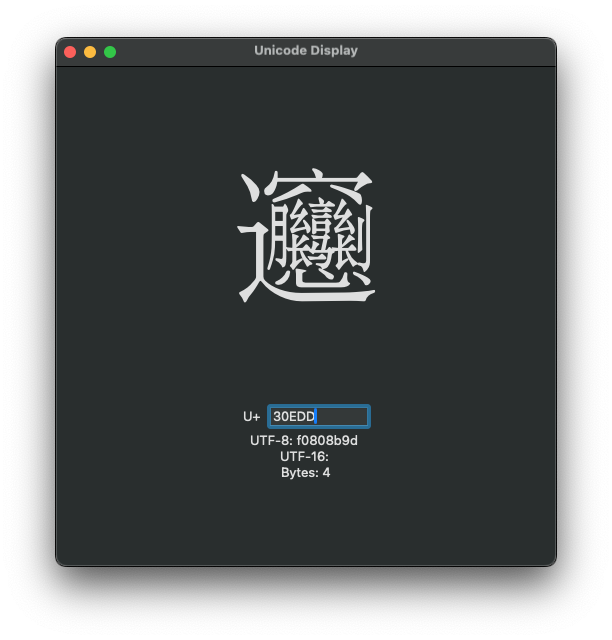
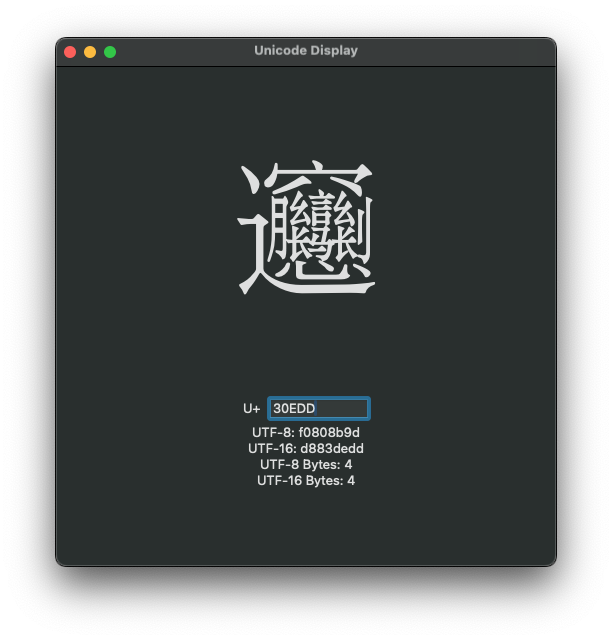
Added UTF-16 bytes and improved invalid character handling with reset

Changed region(s): [[0.3725, 0.25, 0.6209, 0.4688], [0.4036, 0.5938, 0.6209, 0.7812]]

diff --git a/Unicode Display/Converter.swift b/Unicode Display/Converter.swift
@@ -12,18 +12,20 @@ import Foundation
 //}
 
 class Converter {
-    private var bytesUsed = 0
+    private var encodedChar = Character("\u{200B}")
+    private var codePoint: UInt32 = 0
     private var utf8: UInt32 = 0
     private var utf16: UInt32 = 0
-    private var codePoint: UInt32 = 0
-    private var codePlane: Int = 0
-    private var encodedChar = Character("\u{200B}")
+    private var utf8BytesUsed = 0
+    private var utf16BytesUsed = 0
+    private var codePlane = 0
 //    let utf8codec: Unicode.UTF8
     
     init() {}
     
-    init(_ encoding: String, _ codePoint: String) {
-        self.codePoint = UInt32(codePoint)!
+    func reset() {
+        encodedChar = Character("\u{200B}")
+        (codePoint, utf8, utf16, utf8BytesUsed, utf16BytesUsed) = (0, 0, 0, 0, 0)
     }
     
     /// Sets the converter's `codePoint` to the input, checks for valid hex code and length
@@ -38,14 +40,21 @@ class Converter {
         
         // Check that the codePoint string can become a hex number/only contains hex characters
         if let codeHex = UInt32(codePoint, radix: 16) {
-            // Check that the hex number is in a valid point range of displayable Unicode characters
-            if pointRange.contains(codeHex) {
-                self.codePoint = codeHex
-                set_utf8()
-                set_utf16()
-                setChar()
-                setCodePlane()
+            // Supposedly can set variables without error
+            self.codePoint = codeHex
+            set_utf8()
+            set_utf16()
+            set_codePlane()
+            // Check that the codePoint is in a valid point range of displayable Unicode characters
+            if pointRange.contains(self.codePoint) {
+                set_char()
+            } else {
+                // Control character/invalid so set to zero width space
+                encodedChar  = Character("\u{200B}")
             }
+        } else {
+            // Not valid codePoint/hex input
+            reset()
         }
     }
     
@@ -63,31 +72,31 @@ class Converter {
         utf8 = 0
         
         if fourBytes.contains(codePoint) {
-            bytesUsed = 4
+            utf8BytesUsed = 4
             byte1 = (0b1111_0000 + UInt8(codePoint >> 18))
             byte2 = (continuationByte + UInt8((codePoint & 0x3FFF) >> 12))
             byte3 = (continuationByte + UInt8((codePoint & 0x3FF) >> 6))
             byte4 = (continuationByte + UInt8(codePoint & 0x3F))
         } else if threeBytes.contains(codePoint)  {
-            bytesUsed = 3
+            utf8BytesUsed = 3
             byte1 = (0b1110_0000 + UInt8(codePoint >> 12))
             byte2 = (continuationByte + UInt8((codePoint & 0xFFF) >> 6))
             byte3 = (continuationByte + UInt8(codePoint & 0x3F))
         } else if twoBytes.contains(codePoint) {
-            bytesUsed = 2
+            utf8BytesUsed = 2
             byte1 = (continuationByte + UInt8(codePoint >> 6))
             byte2 = (continuationByte + UInt8(codePoint & 0x3F))
         } else if oneByte.contains(codePoint) {
-            bytesUsed = 1
+            utf8BytesUsed = 1
             byte1 = UInt8(codePoint)
         } else {
             print("Invalid code point: \(codePoint)")
             return
         }
         
-        let byte1Shift = (bytesUsed - 1) * UInt8.bitWidth
-        let byte2Shift = bytesUsed >= 2 ? ((bytesUsed - 2) * UInt8.bitWidth) : 0
-        let byte3Shift = bytesUsed >= 3 ? ((bytesUsed - 3) * UInt8.bitWidth) : 0
+        let byte1Shift = (utf8BytesUsed - 1) * UInt8.bitWidth
+        let byte2Shift = utf8BytesUsed >= 2 ? ((utf8BytesUsed - 2) * UInt8.bitWidth) : 0
+        let byte3Shift = utf8BytesUsed >= 3 ? ((utf8BytesUsed - 3) * UInt8.bitWidth) : 0
         utf8 = UInt32(byte1) << byte1Shift + UInt32(byte2) << byte2Shift
         utf8 += UInt32(byte3) << byte3Shift + UInt32(byte4)
     }
@@ -99,6 +108,7 @@ class Converter {
     func set_utf16() -> Void {
         // Trying C implementation
         utf16 = cset_utf16(codePoint)
+        utf16BytesUsed = utf16 <= 0xFFFF ? 2 : 4
         return
     }
     
@@ -106,24 +116,32 @@ class Converter {
         return utf16
     }
     
-    func getChar() -> Character {
+    func get_char() -> Character {
         return encodedChar
     }
     
-    func getBytesUsed() -> Int {
-        return bytesUsed
+    func get_utf8Bytes() -> Int {
+        return utf8BytesUsed
+    }
+    
+    func get_utf16Bytes() -> Int {
+        return utf16BytesUsed
     }
     
     /// Sets the member `encodedChar` to a Unicide.Scalar, (presumably) simulating valid UTF encoding
     /// - Returns: no return value
-    private func setChar() -> Void {
-        encodedChar = Character(Unicode.Scalar(codePoint)!)
+    private func set_char() -> Void {
+        if let scalar = Unicode.Scalar(codePoint) {
+            encodedChar = Character(scalar)
+        } else {
+            encodedChar = Character("\u{200B}")
+        }
         return
     }
     
     /// Calculates the code plane from the member code point, not currently used but for inspection purposes
     /// - Returns: no return value
-    private func setCodePlane() -> Void {
+    private func set_codePlane() -> Void {
         let planeBits = codePoint >> 16
         codePlane = Int(planeBits)
         

diff --git a/Unicode Display/ContentView.swift b/Unicode Display/ContentView.swift
@@ -12,7 +12,8 @@ struct ContentView: View {
     @State private var displayChar = Character("\u{200B}")
     @State private var utf8: UInt32 = 0
     @State private var utf16: UInt32 = 0
-    @State private var numBytes = 0
+    @State private var utf8Bytes = 0
+    @State private var utf16Bytes = 0
     private let converter = Converter()
     
     init() {}
@@ -29,21 +30,21 @@ struct ContentView: View {
                         .frame(minWidth: 100, maxWidth: 100)
                         .onChange(of: codePoint) {
                             displayChar = Character("\u{200B}")
-                            utf8 = 0
-                            utf16 = 0
-                            numBytes = 0
                             converter.setCodePoint(codePoint)
-                            displayChar = converter.getChar()
+                            displayChar = converter.get_char()
                             utf8 = converter.get_utf8()
                             utf16 = converter.get_utf16()
-                            numBytes = converter.getBytesUsed()
+                            utf8Bytes = converter.get_utf8Bytes()
+                            utf16Bytes = converter.get_utf16Bytes()
                         }
                 } label: {
                     Text("U+")
                 }
-                Text("UTF-8: " + String(utf8, radix: 16) + " " + String(displayChar))
+                Text("UTF-8: " + String(utf8, radix: 16))
+//                + " " + String(displayChar))
                 Text("UTF-16: " + String(utf16, radix:16))
-                Text("Bytes: " + String(numBytes))
+                Text("UTF-8 Bytes: " + String(utf8Bytes))
+                Text("UTF-16 Bytes: " + String(utf16Bytes))
             }
         }
         .frame(minWidth: 500, maxWidth: 1280, minHeight: 500, maxHeight: 720)

diff --git a/README.md b/README.md
@@ -1,15 +1,14 @@
 #  Unicode Display
 
-This project accepts entry of a Unicode code point and displays the relavent character, while displaying the UTF encodings and byte size. I made this for personal learning about encoding logic so the code is extremely clunky and not well tested. I tried to implement basic input validation, but some things remain beyond the scope of this project. Therefore it may crash on inputs I have yet to test for.
+This program accepts entry of a Unicode code point and displays the relavent character, while displaying the UTF-8 and UTF-16 encodings and byte size. I made this for personal learning about encoding logic so the code is quite clunky and not well tested. I tried to implement basic input validation, but some additions remain beyond the scope of this project unfortunately.
 
 ## Overview
 
-Intended to work with UTF-8 and UTF-16 encodings. I hope to be able to add ability to input a 
-character literal and display the code point and encodings as well.
+Intended to work with UTF-8 and UTF-16 encodings, and I would like to implement composite characters (emoji variations, flags, diacritics, etc.)
 
 Example usage (relatively current state of the program):
 
-![Program screenshot displaying the Chinese character *biang* followed by four text fields, input of U+30EDD, UTF-8: f0808b9d, UTF-16: blank, and Bytes: 4](/Resources/U+30EDD%20Sample.png)
+![Program screenshot displaying the Chinese character *biang* followed by four text fields, input of U+30EDD, UTF-8: f0808b9d, UTF-16: d883dedd, UTF-8 Bytes: 4, UTF-16 Bytes: 4](/Resources/U+30EDD%20Sample.png)
 
 ### Crashes discovered so far
-- Attempting to use dictation in the text field sometimes causes a crash but not recently, unsure why.
+- Attempting to use dictation in the text field sometimes causes a crash but not recently, unsure why (currently Swift Version 5.9 on macOS 14 beta 5)
